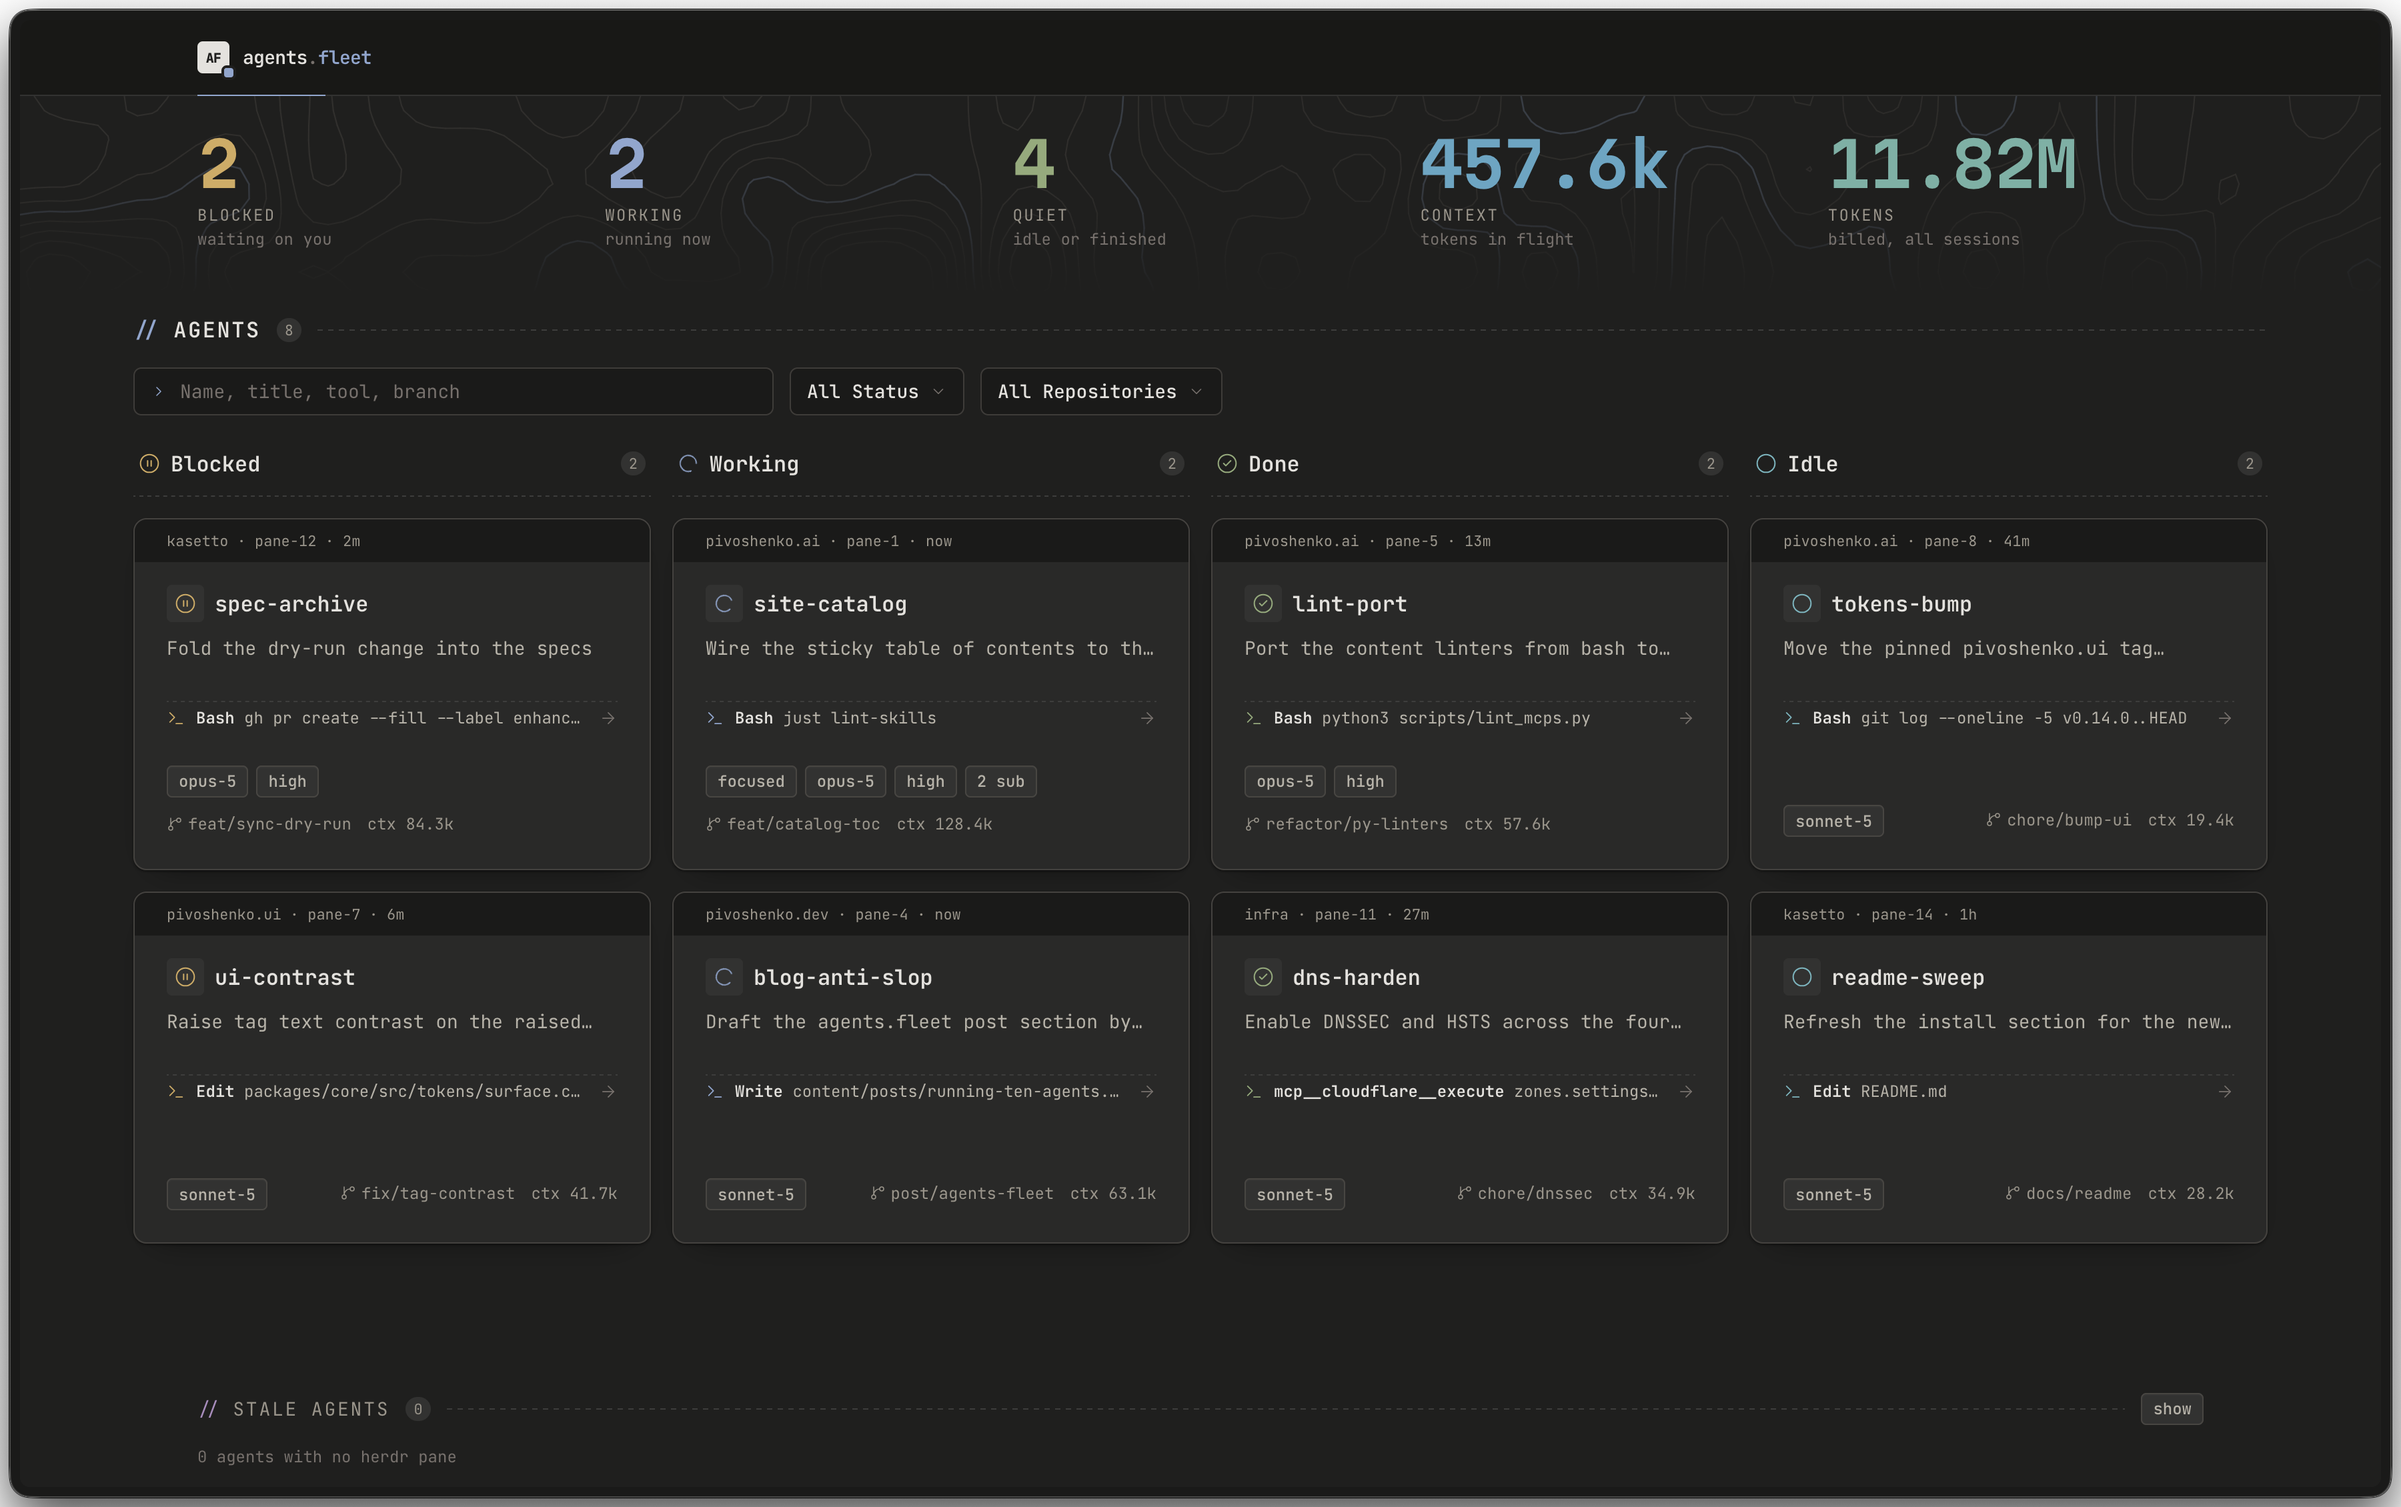
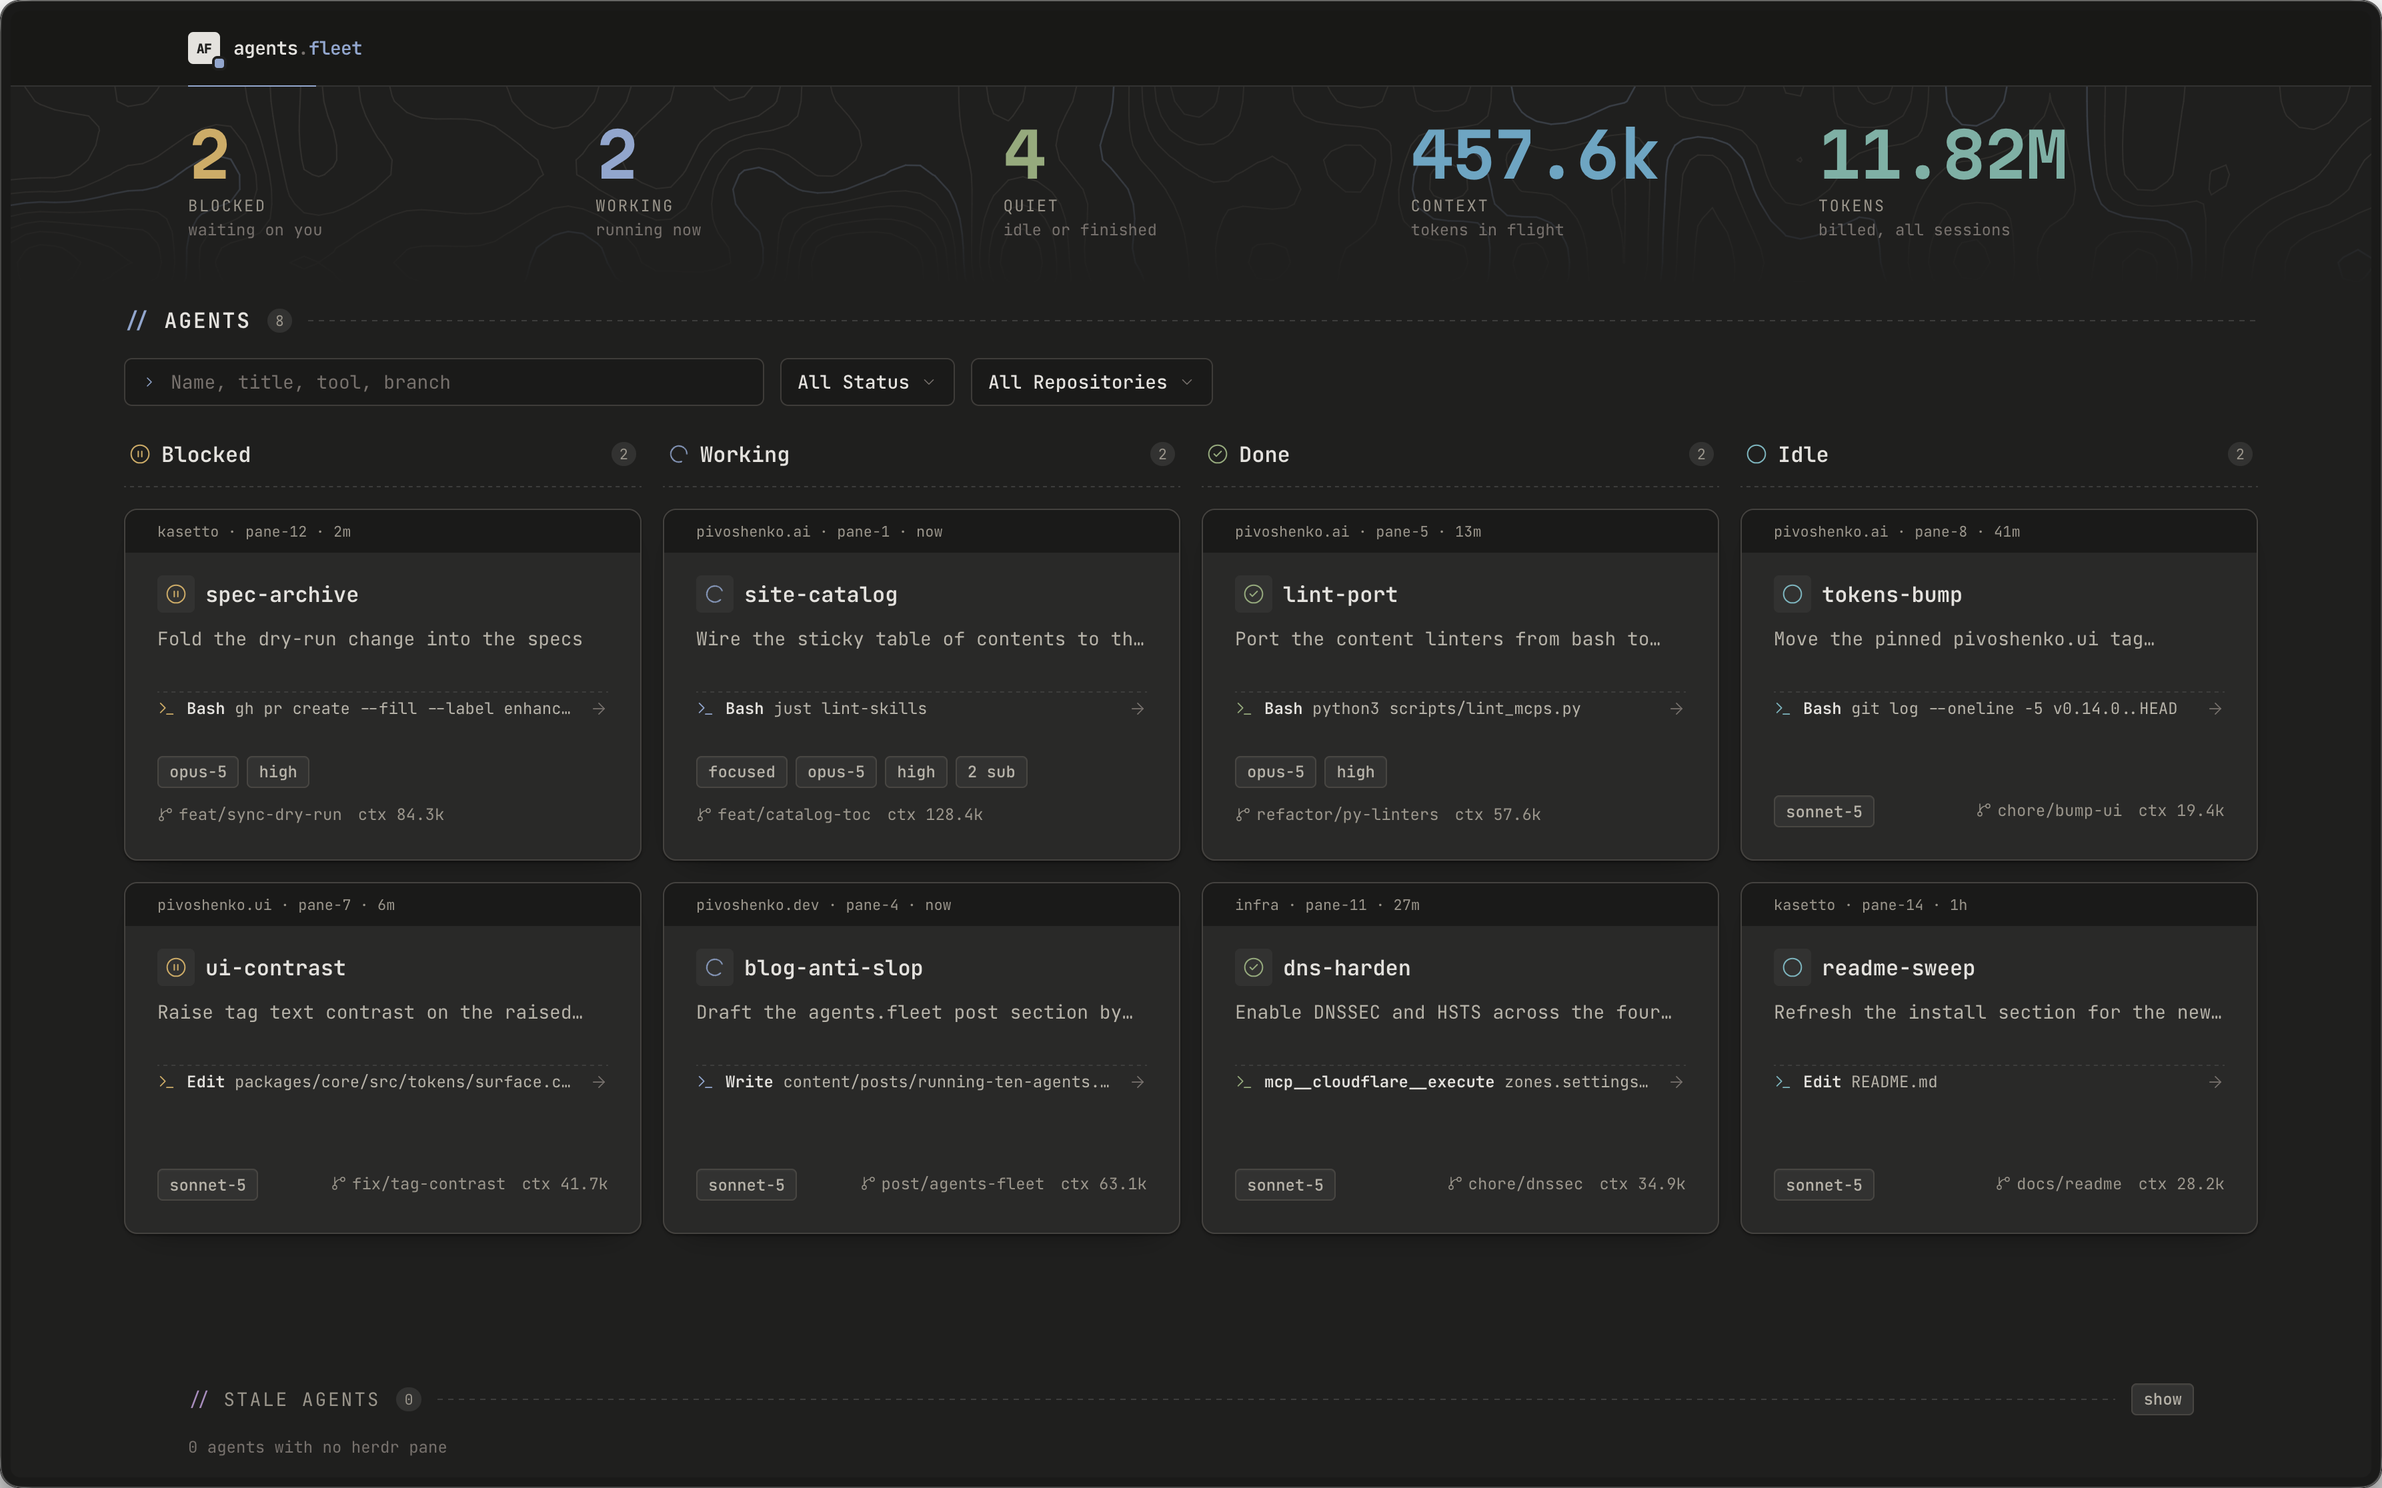
design(site): present the plugin screenshot without a second frame

diff --git a/site/components/plugin-showcase.tsx b/site/components/plugin-showcase.tsx
@@ -6,67 +6,74 @@ type ShowcaseProps = {
   plugin: Plugin
 }
 
-// A plugin is a whole running application rather than a prompt fragment, so it
-// gets a landing-page slab. The screenshot is a dense terminal UI at native
-// resolution - beside a column of copy it is unreadable, so it takes the full
-// width of the page and the copy sits above it
 export function PluginShowcase({ plugin }: ShowcaseProps) {
   const href = `${plugin.source}/tree/main/${plugin.path}`
 
   return (
-    <article className="space-y-6">
-      <div className="flex flex-wrap items-end justify-between gap-x-8 gap-y-4">
-        <div>
-          <p className="type-label fg-subtle flex items-center gap-2">
-            <Blocks
-              size={14}
-              strokeWidth={2}
-              aria-hidden="true"
-              className="text-accent"
-            />
-            {plugin.host} plugin
-          </p>
+    <article className="grid items-center gap-8 lg:grid-cols-[minmax(0,4fr)_minmax(0,6fr)]">
+      <div>
+        <p className="type-label fg-subtle flex items-center gap-2">
+          <Blocks
+            size={14}
+            strokeWidth={2}
+            aria-hidden="true"
+            className="text-accent"
+          />
+          {plugin.host} plugin
+        </p>
 
-          <h3 className="type-display fg-title mt-3 text-2xl leading-tight">
-            {plugin.name}
-          </h3>
+        <h3 className="type-display fg-title mt-3 text-xl leading-tight">
+          {plugin.name}
+        </h3>
 
-          <p className="type-body fg-body mt-3 max-w-[64ch]">
-            {plugin.description}
-          </p>
-        </div>
+        <p className="type-body fg-body mt-3">{plugin.description}</p>
 
-        <Tags>
+        <Tags className="mt-4">
           {plugin.version && <Tag>v{plugin.version}</Tag>}
           {plugin.platforms.map((platform) => (
             <Tag key={platform}>{platform}</Tag>
           ))}
         </Tags>
-      </div>
 
-      <a
-        href={href}
-        target="_blank"
-        rel="noopener noreferrer"
-        className="group focus-ring block"
-      >
-        {plugin.preview ? (
-          <img
-            src={plugin.preview}
-            alt={`${plugin.name} running`}
-            loading="lazy"
-            className="border-card w-full rounded-lg border shadow-float transition-colors duration-base ease-out group-hover:border-accent"
-          />
-        ) : (
-          <span className="border-card block aspect-[16/10] w-full rounded-lg border bg-crust" />
-        )}
-        <span className="type-meta fg-subtle group-hover:text-accent mt-3 flex items-center gap-1.5 transition-colors duration-fast">
+        <a
+          href={href}
+          target="_blank"
+          rel="noopener noreferrer"
+          className="group type-meta fg-subtle hover-primary focus-ring mt-5 inline-flex items-center gap-1.5 rounded-sm no-underline transition-colors duration-fast"
+        >
           <span aria-hidden="true" className="text-accent">
             {'//'}
           </span>
           {plugin.path}
-          <ArrowUpRight size={14} strokeWidth={2} aria-hidden="true" />
-        </span>
+          <ArrowUpRight
+            size={14}
+            strokeWidth={2}
+            aria-hidden="true"
+            className="transition-[color,transform] duration-base ease-out group-hover:translate-x-0.5 group-hover:text-accent motion-reduce:transition-none motion-reduce:group-hover:translate-x-0"
+          />
+        </a>
+      </div>
+
+      {/* No frame of our own: the screenshot already carries a window chrome,
+          and a border around it reads as two */}
+      <a
+        href={href}
+        target="_blank"
+        rel="noopener noreferrer"
+        tabIndex={-1}
+        aria-hidden="true"
+        className="group block overflow-hidden rounded-md"
+      >
+        {plugin.preview ? (
+          <img
+            src={plugin.preview}
+            alt=""
+            loading="lazy"
+            className="block w-full opacity-90 transition-opacity duration-base ease-out group-hover:opacity-100"
+          />
+        ) : (
+          <span className="border-card block aspect-[16/10] w-full rounded-lg border bg-crust" />
+        )}
       </a>
     </article>
   )
